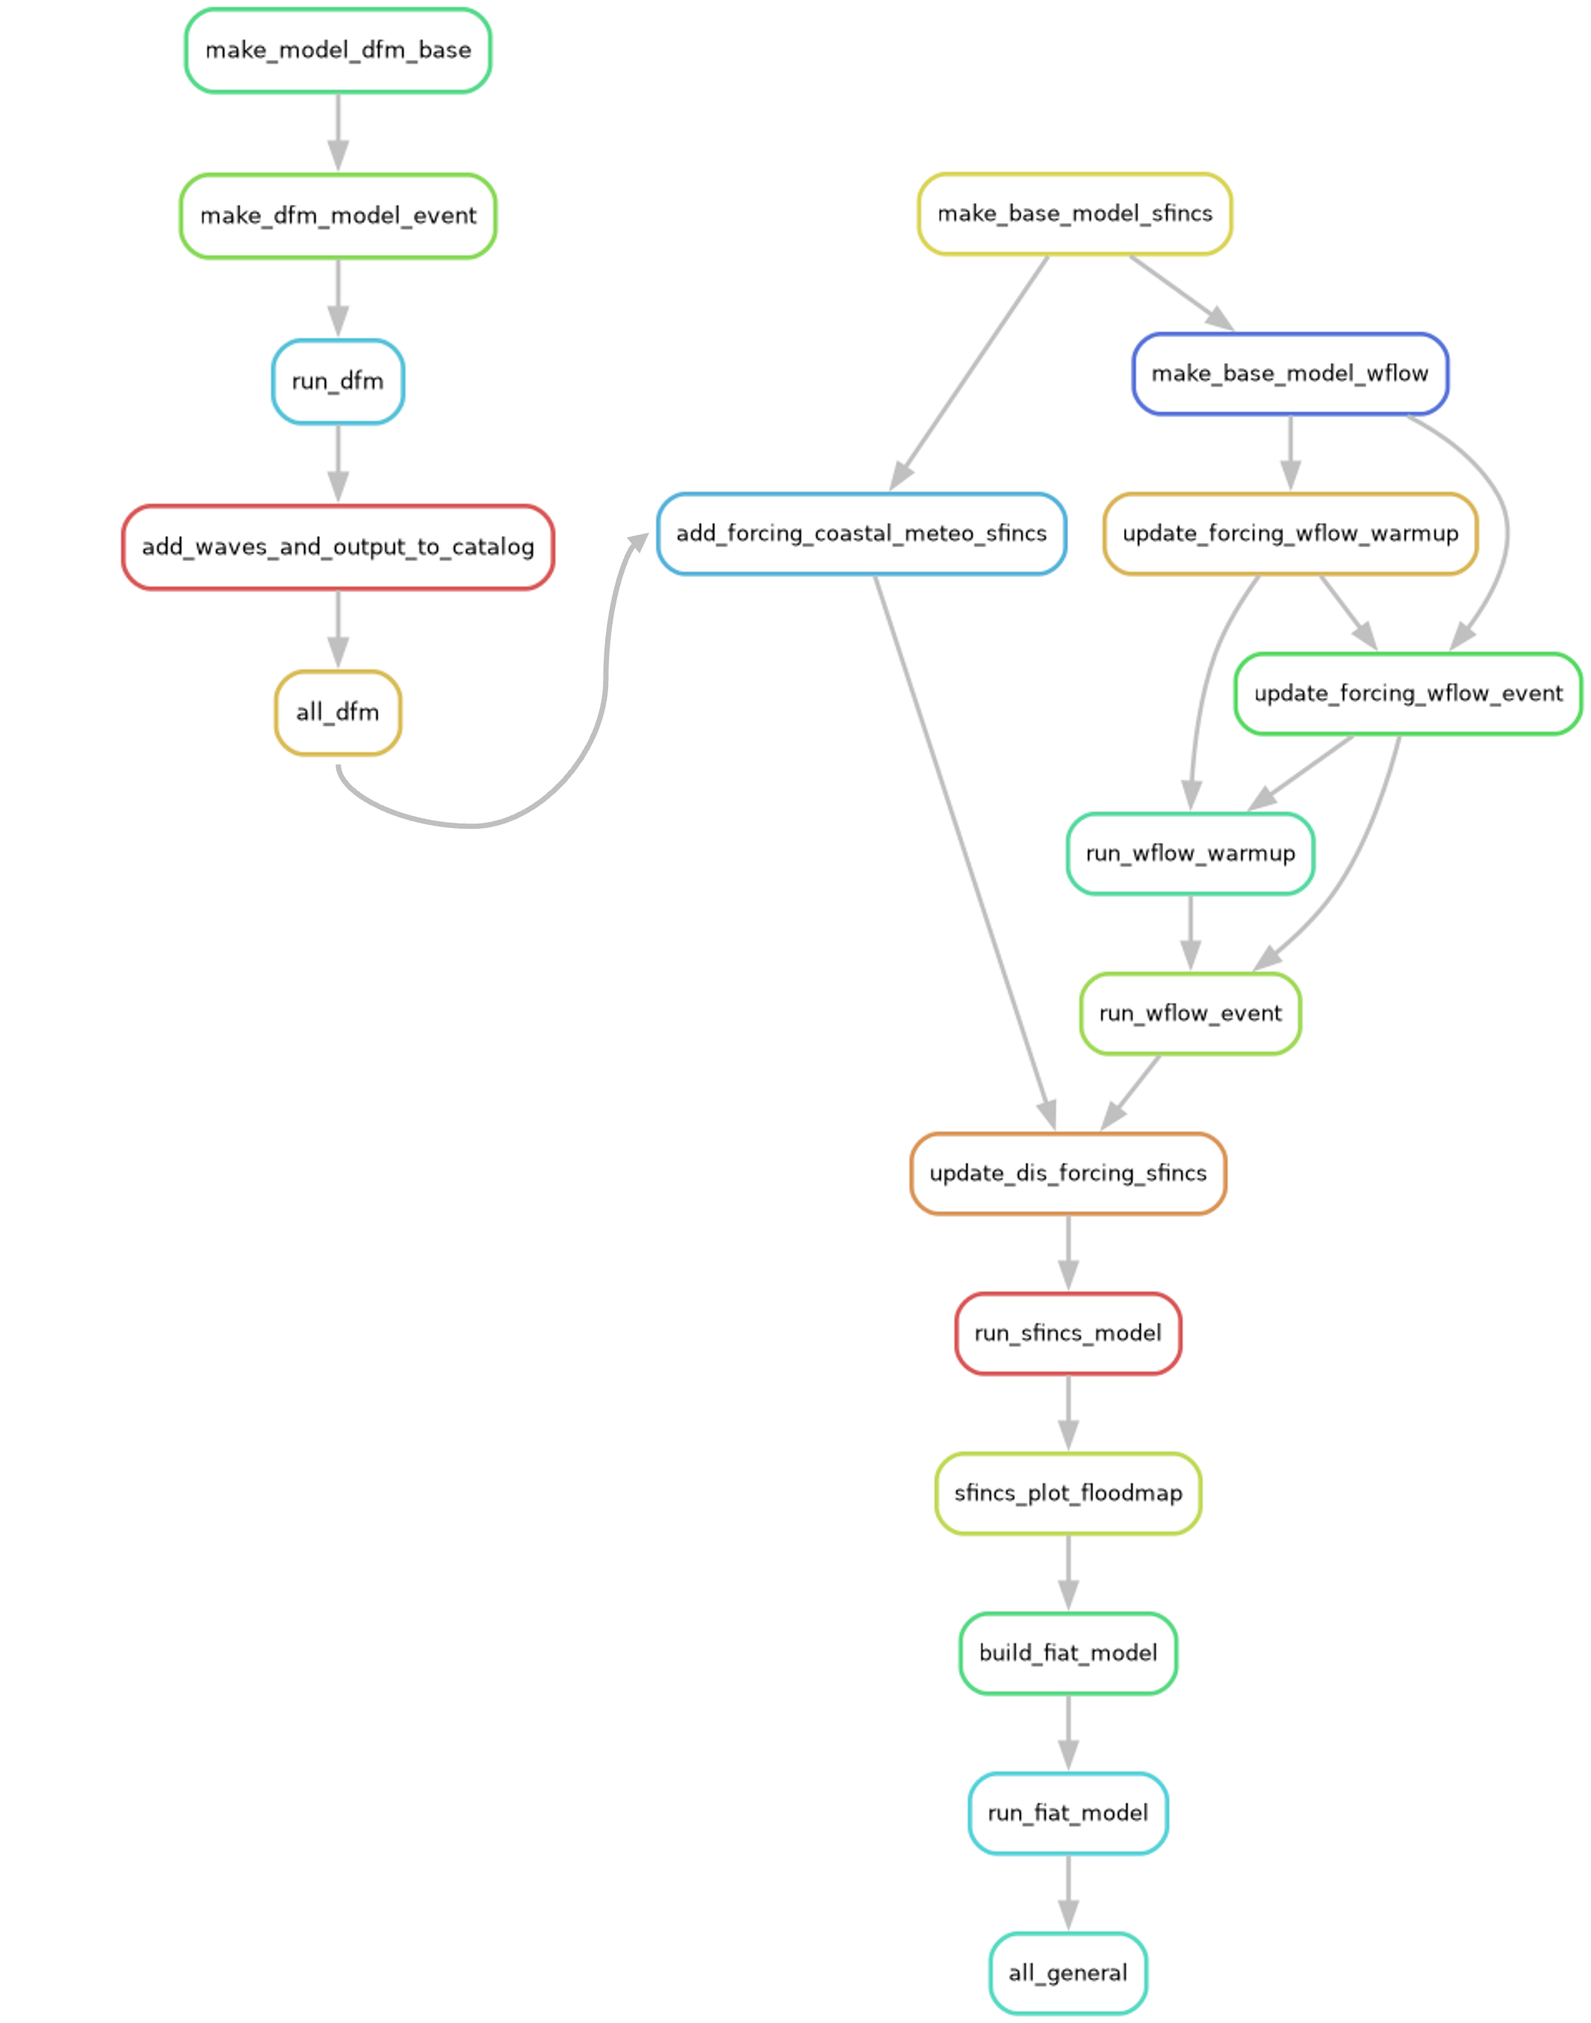
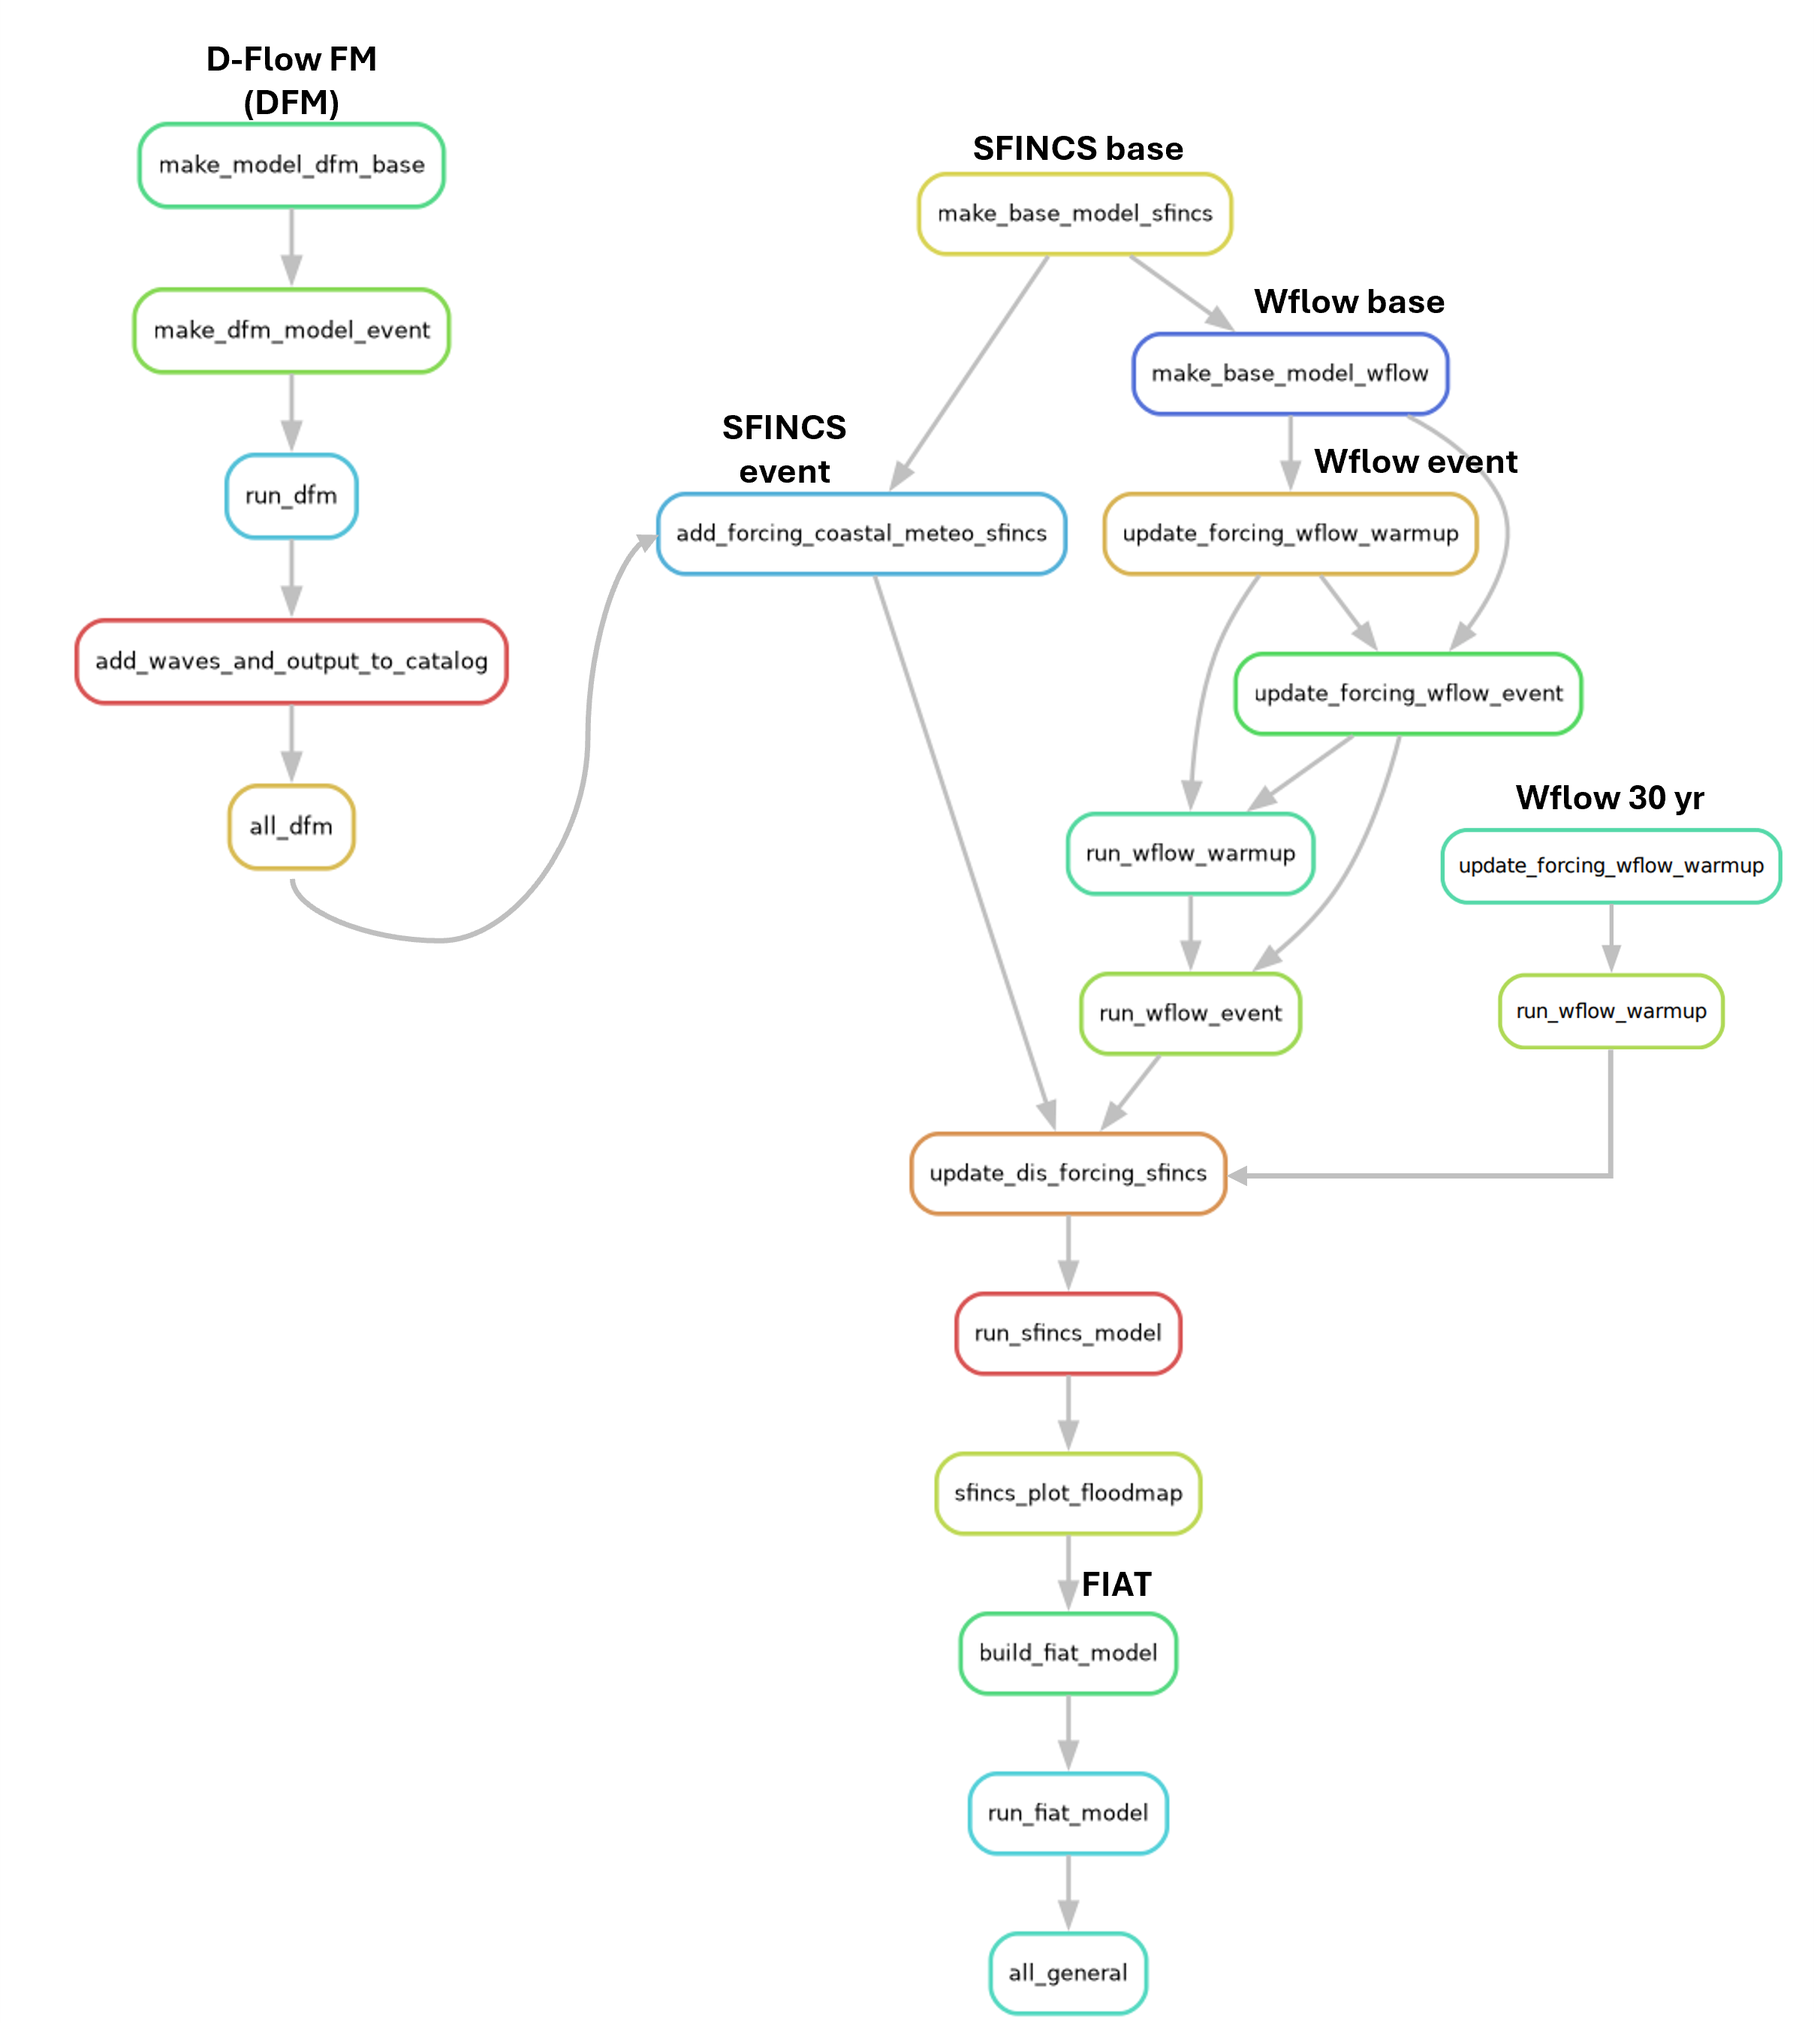
Save work before rebase

diff --git a/Workflows/README.md b/Workflows/README.md
@@ -1,4 +1,3 @@
-
 The structure of the folder is as follows:
 - Workflows
     - Config - per model  : Model configuration files
@@ -12,15 +11,17 @@ The structure of the folder is as follows:
 
 ## **Workflows**
 
-Four snakemake workflow files are present. All workflows work both on Linux as well as on Windows. All snakemake workflows use the same config yml file: config_snakemake/config_general.yml. 
+Seven snakemake workflow files are present. All workflows work both on Linux as well as on Windows. All snakemake workflows use the same config yml file: config_snakemake/config_general_MZB.yml. All data that is necessary to run the workflows is open source and can be found through the links in the data catalogs or are self generated and can be found in the Data folder.
 
 - [Workflows](#workflows)
-  - [snakefile_all.smk](#snakefile_allsmk): This workflow combines all other snakemake workflows into one large workflow. The sequence of the workflows are: snakefile_sfincs_build.smk > snakefile_wflow.smk > snakefile_sfincs_update.smk
-  - [snakefile_sfincs_build.smk](#snakefile_sfincs_buildsmk): This workflow builds a SFINCS model without adding any forcing yet. The workflow consists of just one rule.
-  - [snakefile_wflow.smk](#snakefile_wflowsmk): This workflow builds a wflow model, using the SFINCS region as input. Gauges are added on the SFINCS inflow points, in order to generate output at the correct locations. Precipitation forcing is added based on the event start and end time. First, the wflow model is warmed up for a period of 1 year, with daily ERA5 data. The event itself is run with the forcing data as given in the snakemake configuration file.
-  - [snakefile_sfincs_update](#snakefile_sfincs_updatesmk): This workflow updates the SFINCS model by adding forcing data and running the model simulations. It handles the addition of both meteorological and WFlow forcing data, executes the model, and generates the output.
-   - [snakefile_dfm.smk](#snakefile_dfmsmk):This workflow creates a dfm base model and updates it by adding forcing data and running the model simulations. It also add the output to a data catalog which can be used as SFINCS waterlevel forcing.
-
+- **snakefile_sfincs_build.smk**: This workflow builds a SFINCS model without adding any forcing yet. The workflow consists of just one rule.
+- **snakefile_wflow.smk**: This workflow builds a wflow model, using the SFINCS region as input. Gauges are added on the SFINCS inflow points, in order to generate output at the correct locations. Precipitation forcing is added based on the event start and end time. First, the wflow model is warmed up for a period of 1 year, with daily ERA5 data. The event itself is run with ERA5 hourly precipitation and tmeperature forcing data as given in the snakemake configuration file. Both factual and counterfactual precipitation can be provided as input.
+- **snakefile_wflow_30yr.smk**: This workflow builds a 30-year long wflow model, ending at the start of the TC event, using the wflow base model as input. The bankfull discharge (2-year return period) is based on this 30-year long simulation and removed from the wflow generated discharge for the event, before added as discharge boundary condition to SFINCS.The remain incoming discharge represents the out of banks discharge, thereby removing the need to burn in an (unknown) river conveyance in the DEM. For this purpose, the same gauges as the wflow model for the event are used, in order to generate output at the correct locations. Precipitation forcing is added based on the event start time and exactly 30 years prior. The 30-year wflow model is run with daily ERA5 data for precipitation and temperature.
+- **snakefile_dfm.smk**/**snakefile_dfm_cluster.smk**: This workflow creates a dfm base model on windows or linux (_cluster) and updates it by adding forcing data and running the model simulations. Afterwards, wave setup results from a SFINCS-SnapWave simulation is added to the DFM output. The output is added to a data catalog which can be used as SFINCS waterlevel forcing. Both factual and counterfactual sea level and wind speed can be provided as input.
+- **snakefile_sfincs_update.smk**: This workflow updates the SFINCS model by adding forcing data and running the model simulations. It handles the addition of meteorological, coastal and discharge forcing data; executes the model, and generates the output. Both factual and counterfactual precipitation, sea level and wind speed can be provided as input.
+- **snakefile_all_wflow_sfincs.smk**: This workflow combines the wflow and sfincs into one large workflow. Combining all workflow is not possible due to conflicting packages and the need for one overarching pixi environment. You can use this snakefile instead of the one mentioned shortly. The sequence of the workflows are: 
+snakefile_sfincs_build.smk > snakefile_wflow.smk > snakefile_sfincs_update.smk
+- **snakefile_fiat.smk**: This workflow builds and runs the Delft-FIAT model to estimate flood damage, based on the floodmap generated by the SFINCS simulations. 
 In the section below, the different workflows are described:
 
 ## Workflow --- snakefile_all.smk ---
@@ -38,7 +39,7 @@ This workflow builds a SFINCS model without adding any forcing yet. The workflow
 - **Output**: SFINCS model for the region (bounding box defined in `config_snakemake/config_general.yml`).
 - **Description**: This rule creates the SFINCS model  using the bbox given in the snakemakeThe model domain is based on the bounding box as given in the config_snakemake/config_general.yml file.
 Further options for building the model are given in the *config_sfincs\sfincs_base_build.yml* input file.
-The bounding box is then  used to find all intersecting subbasins (hydroAtlas level 12). These intersecting subbasins form the model region. Also, the model region extents to the -5???m contour line. 
+The bounding box is then used to find all intersecting subbasins (hydroAtlas level 12). These intersecting subbasins form the model region. Also, the model region extents to the -5???m contour line. 
 
 
 ## Workflow --- snakefile_wflow.smk ---

diff --git a/README.md b/README.md
@@ -1,15 +1,15 @@
-# Compound Flooding Modeling for Tropical Cyclones
+# Compound Flooding Modeling for Tropical Cyclone Idai, Mozambique
 
 This work is part of the paper Vertegaal et al. (submitted) and Work Package 1 of the COMPASS project whose overarching objective is to characterise compound extremes in current and future climates. COMPASS (COMPound extremes Attribution of climate change: towardS an operational Service) aims to develop a harmonized, yet flexible, methodological framework for **climate and impact attribution** of various complex **extremes** that include compound, sequential and cascading hazard events. For more information and useful links about the project, have a look at the introduction on the [COMPASS Github repository](https://github.com/HORIZON-COMPASS)
 
 ![logoCOMPASS](https://github.com/user-attachments/assets/4c3b95d4-bfc0-4727-a1e8-ee6653a03b5e)
 
 ## Description
-This repository contains workflows to setup a global-to-local modelling chain for the hazard and impact modelling of tropical cyclone (TC) Idai. More specifically, it contains specific workflows to setup a hydrological model (wflow), a coastal hydrodynamic model (Delft3D-FM), a local compound flooding model (SFINCS), and a flood impact model (Delft-FIAT) for the sofala province in Mozambique. Each model is setup through a separate workflow and provide boundary conditions for a specific TC driver to be considered to model local compound flooding. A final workflow combines all the separate workflows together for the local compound flood model setup. The workflows are created using the [snakemake](https://snakemake.readthedocs.io/en/stable/) package and [hydroMT](https://deltares.github.io/hydromt/stable/) model builders for wflow ([hydroMT-Wflow](https://deltares.github.io/hydromt_wflow/latest/)), SFINCS ([hydromt-sfincs](https://deltares.github.io/hydromt_sfincs/latest/)), Delft-FIAT ([hydromt-fiat](https://github.com/Deltares/hydromt_fiat)), and the Python [dfm-tools](https://deltares.github.io/dfm_tools/) for the Delft3D-FM model. All the input datasets are defined in a data catalog and specific model parameters and other pre-processing steps in a configuration file, both are .yml files. Data to generate all figures is still to be added. To create the results presentd in Vertegaal et al. (submitted), you can un the scripts in the Attribution_results folder, where another README explains which scripts is needed for which result.
+This repository contains workflows to setup a global-to-local modelling chain for the hazard and impact modelling of tropical cyclone (TC) Idai. More specifically, it contains specific workflows to setup a hydrological model (wflow), a coastal hydrodynamic model (Delft3D-FM), a local compound flooding model (SFINCS), and a flood impact model (Delft-FIAT) for the sofala province in Mozambique. Each model is setup through a separate workflow and provide boundary conditions for a specific TC driver to be considered to model local compound flooding. The workflows are created using the [snakemake](https://snakemake.readthedocs.io/en/stable/) package and [hydroMT](https://deltares.github.io/hydromt/stable/) model builders for wflow ([hydroMT-Wflow](https://deltares.github.io/hydromt_wflow/latest/)) and SFINCS ([hydromt-sfincs](https://deltares.github.io/hydromt_sfincs/latest/)), Delft-FIAT ([hydromt-fiat](https://github.com/Deltares/hydromt_fiat)), and the Python [dfm-tools](https://deltares.github.io/dfm_tools/) for the Delft3D-FM model. All the input datasets are defined in a data catalog and specific model parameters and other pre-processing steps in a configuration file, both are .yml files. Data to generate all figures is still to be added. To create the results presentd in Vertegaal et al. (submitted), you can un the scripts in the Attribution_results folder, where another README explains which scripts is needed for which result.
 
 ![image](f01.png)
 
-# This code is specifically for the climate and impact attribution of TC Idai but can be applied to other flood events.
+## This code is specifically for the climate and impact attribution of TC Idai but can be applied to other flood events.
 
 ## Installation instructions
 ### Prerequisite
